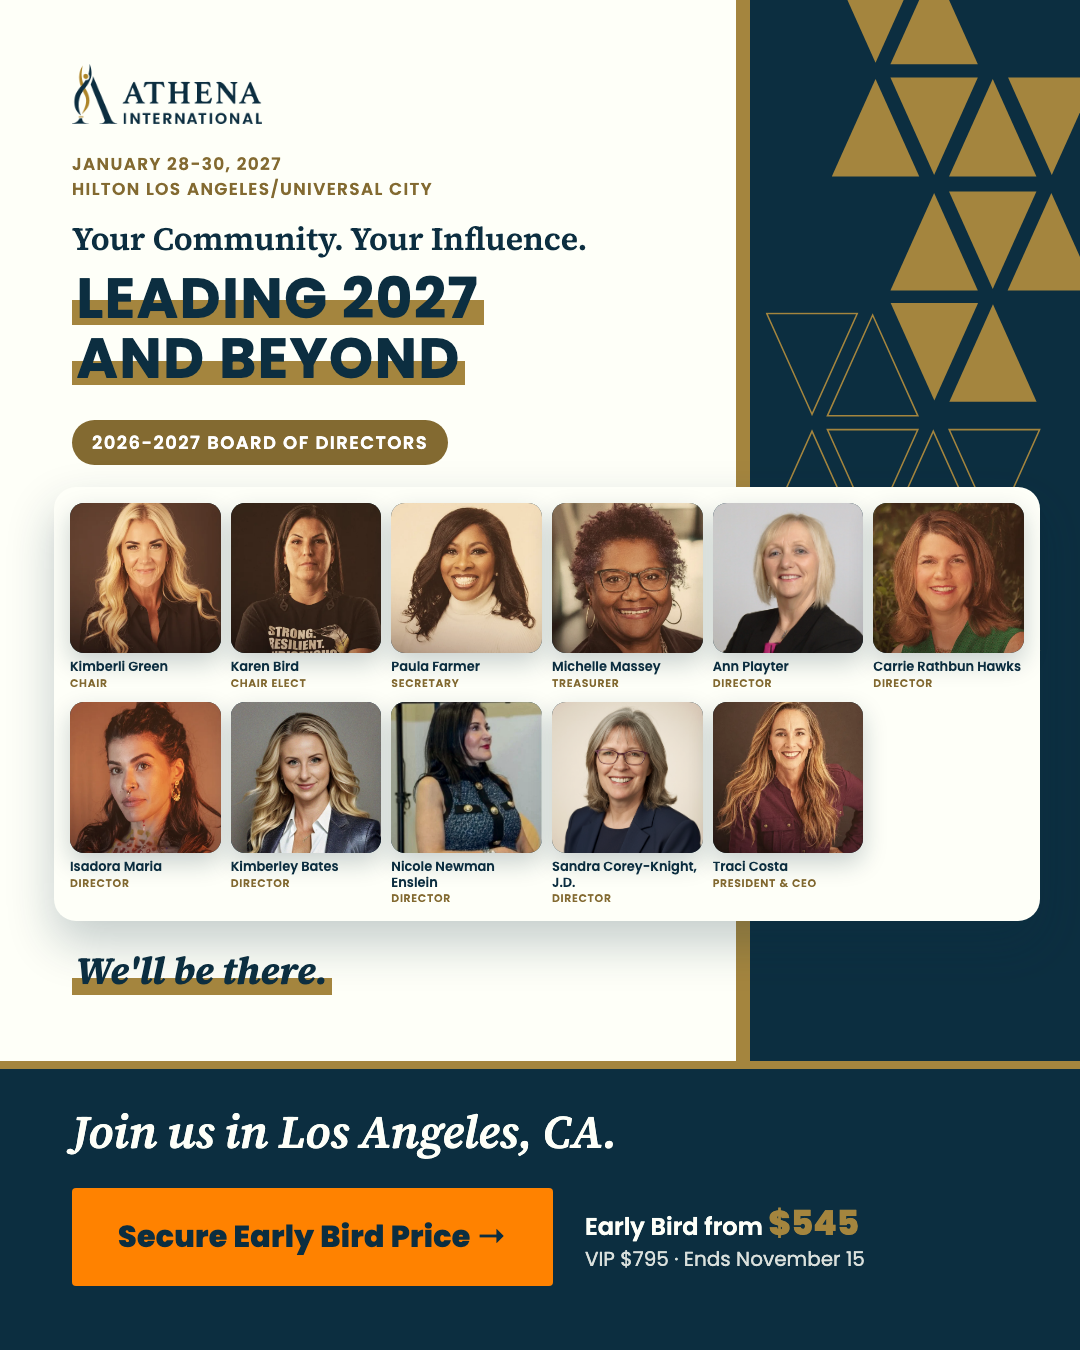
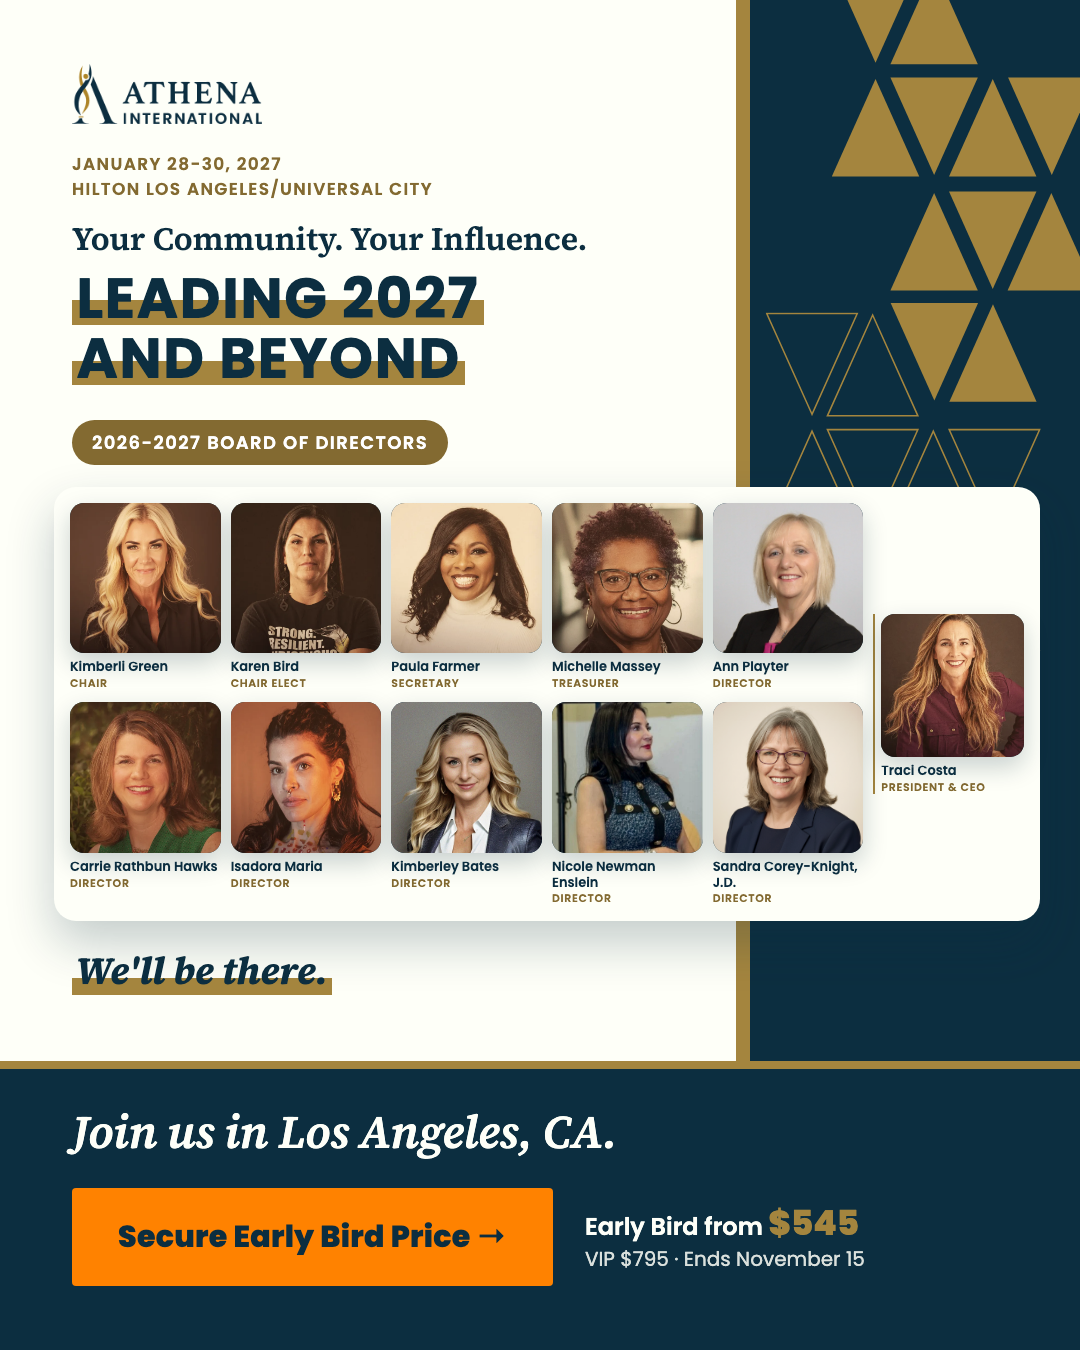
kit de speakers atualizado

Changed region(s): [[0.0611, 0.3733, 0.9472, 0.6844]]

diff --git a/index.html b/index.html
@@ -1658,7 +1658,7 @@ Early Bird pricing from $545 ends November 15.
 https://conference.athenainternational.org/?utm_source=linkedin&amp;utm_medium=post&amp;utm_campaign=social_2027&amp;utm_content=painel-turbulence
 
 #ATHENA2027 #WomenInLeadership #WomenInAviation</pre><button type="button" class="copy" data-for="s-painel-turbulence-li">Copy text</button></div></article></div></section><section class="spk" id="board-of-directors"><header class="spkhead"><div><p class="role">ATHENA accounts</p><h3>2026-2027 Board of Directors</h3></div>
-<div class="tags"><a href="social/board-of-directors/captions.txt?v=f7b35ae7" target="_blank" rel="noopener">captions.txt</a></div></header><div class="chs"><article class="ch"><a class="shot" href="social/board-of-directors/board-of-directors_ig-post_1080x1350.png?v=369ddcfd" target="_blank" rel="noopener"><img src="social/board-of-directors/board-of-directors_ig-post_1080x1350.png?v=369ddcfd" alt="2026-2027 Board of Directors, Instagram Post" loading="lazy" width="1080" height="1350"></a>
+<div class="tags"><a href="social/board-of-directors/captions.txt?v=f7b35ae7" target="_blank" rel="noopener">captions.txt</a></div></header><div class="chs"><article class="ch"><a class="shot" href="social/board-of-directors/board-of-directors_ig-post_1080x1350.png?v=da3a68f6" target="_blank" rel="noopener"><img src="social/board-of-directors/board-of-directors_ig-post_1080x1350.png?v=da3a68f6" alt="2026-2027 Board of Directors, Instagram Post" loading="lazy" width="1080" height="1350"></a>
 <div class="chbody"><h4>Instagram Post<span>1080 × 1350</span></h4>
 <pre id="s-board-of-directors-ig">We&#x27;ll be there. Join us!
 
@@ -1670,10 +1670,10 @@ Early Bird pricing from $545 ends November 15.
 Tickets: conference.athenainternational.org
 
 #ATHENA2027 #WomenInLeadership #LeadershipDevelopment #WomenLeaders #LosAngeles</pre><button type="button" class="copy" data-for="s-board-of-directors-ig">Copy text</button></div></article>
-<article class="ch"><a class="shot" href="social/board-of-directors/board-of-directors_ig-story_1080x1920.png?v=75a08795" target="_blank" rel="noopener"><img src="social/board-of-directors/board-of-directors_ig-story_1080x1920.png?v=75a08795" alt="2026-2027 Board of Directors, Instagram Story" loading="lazy" width="1080" height="1920"></a>
+<article class="ch"><a class="shot" href="social/board-of-directors/board-of-directors_ig-story_1080x1920.png?v=22479e9d" target="_blank" rel="noopener"><img src="social/board-of-directors/board-of-directors_ig-story_1080x1920.png?v=22479e9d" alt="2026-2027 Board of Directors, Instagram Story" loading="lazy" width="1080" height="1920"></a>
 <div class="chbody"><h4>Instagram Story<span>1080 × 1920</span></h4><p class="meta">Link sticker “Get your pass”<br><span class="url">https://conference.athenainternational.org/?utm_source=instagram&amp;utm_medium=story&amp;utm_campaign=social_2027&amp;utm_content=board-of-directors</span>Mention sticker @athena_international</p>
 <pre id="s-board-of-directors-st">See you in LA</pre><button type="button" class="copy" data-for="s-board-of-directors-st">Copy text</button></div></article>
-<article class="ch"><a class="shot" href="social/board-of-directors/board-of-directors_linkedin_1200x1500.png?v=cd7d96ea" target="_blank" rel="noopener"><img src="social/board-of-directors/board-of-directors_linkedin_1200x1500.png?v=cd7d96ea" alt="2026-2027 Board of Directors, LinkedIn Post" loading="lazy" width="1080" height="1350"></a>
+<article class="ch"><a class="shot" href="social/board-of-directors/board-of-directors_linkedin_1200x1500.png?v=37f560f2" target="_blank" rel="noopener"><img src="social/board-of-directors/board-of-directors_linkedin_1200x1500.png?v=37f560f2" alt="2026-2027 Board of Directors, LinkedIn Post" loading="lazy" width="1080" height="1350"></a>
 <div class="chbody"><h4>LinkedIn Post<span>1200 × 1500</span></h4>
 <pre id="s-board-of-directors-li">We&#x27;ll be there. Join us!
 
